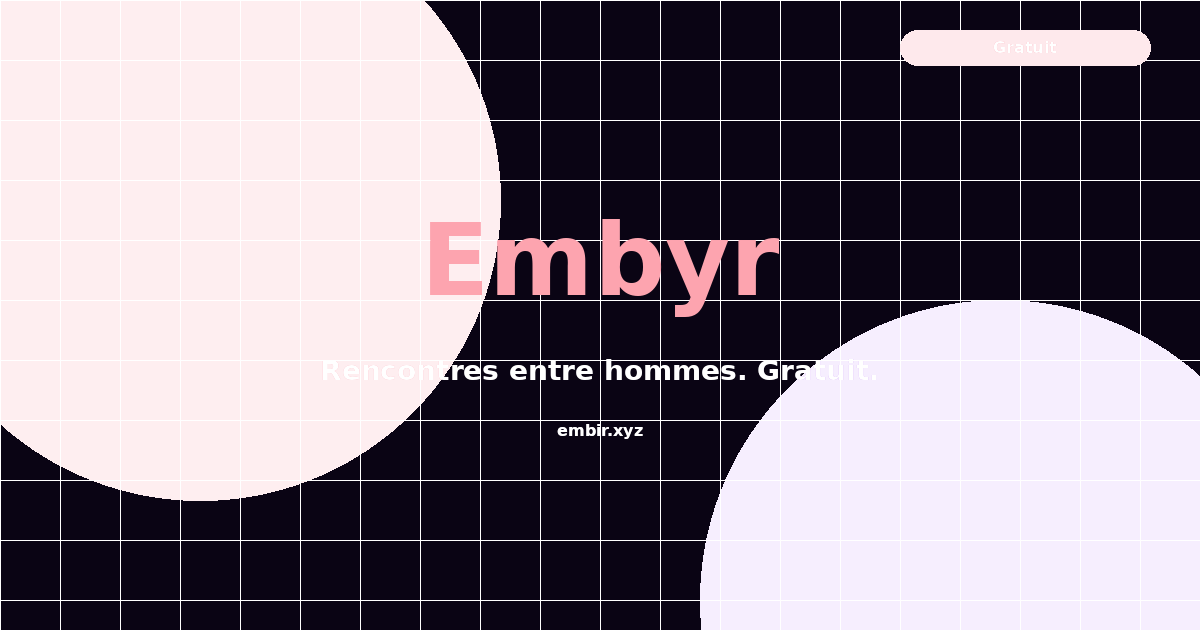
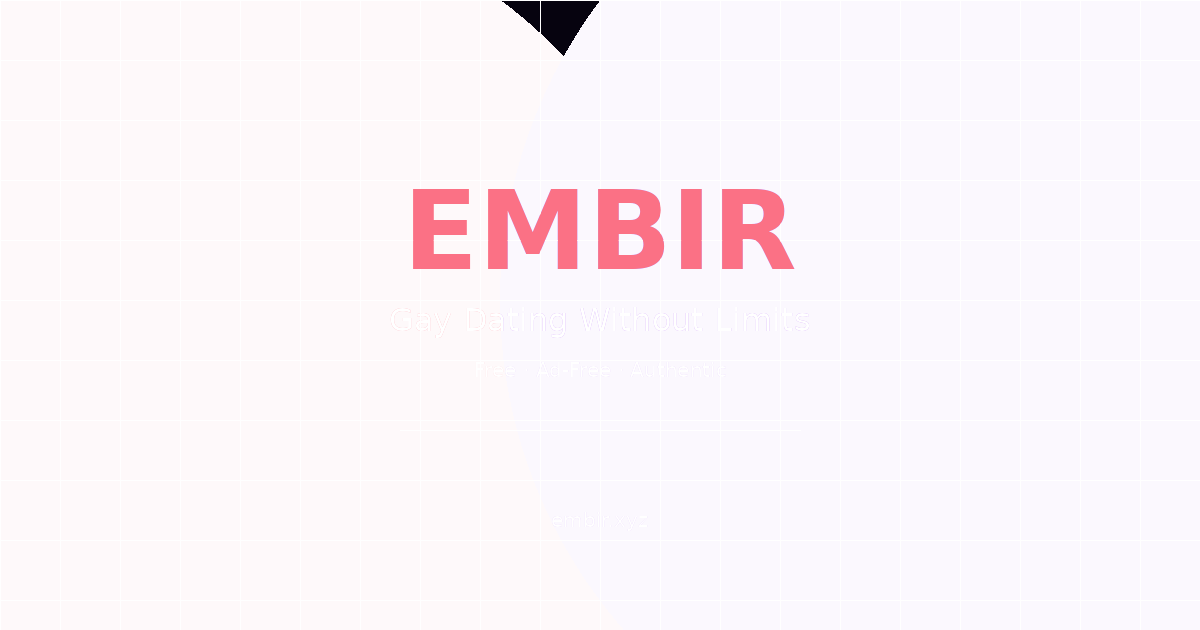
Phase 4: OG image, Product Hunt kit, Reddit launch posts, Dev.to cross-posts

diff --git a/docs/REDDIT_LAUNCH_POSTS.md b/docs/REDDIT_LAUNCH_POSTS.md
@@ -1,0 +1,105 @@
+# Reddit Launch Posts for EMBIR
+
+## When to post
+- **r/SideProject**: Saturday 6AM EST (weekend project vibes)
+- **r/gay**: Tuesday/Thursday 10AM EST (peak activity)
+- **r/LGBT**: Wednesday 12PM EST
+
+## Before posting
+- Must use Mac (IP Free, not VPS — VPS is 403 banned from Reddit)
+- Account: u/EmbyrDating (password: see .env)
+- If account suspended: create new via Mac Chrome
+- Wait 24h after account creation before posting
+
+---
+
+## r/SideProject
+
+**Title:** I built a free, ad-free, open-source Grindr alternative — and it actually works
+
+**Body:**
+
+After years of watching Grindr get worse (ads every 4 swipes, €30/month for basic features, bots everywhere), I finally built what I wanted to exist.
+
+**What it is:**
+EMBIR — a gay dating app that's actually free. Not "freemium." Not "first month free." Free.
+
+**What makes it different:**
+- Zero ads. Not one. Ever.
+- Every feature is free for everyone. No paywalls.
+- Profile verification + ML spam detection = no bots
+- Privacy-first: encrypted chats, no data selling
+- Open source on GitHub so anyone can audit it
+
+**Tech stack:** Next.js, PostgreSQL, Tailwind CSS. Hosted on a VPS.
+
+**Numbers so far:** 30 blog articles, 500+ indexed pages, real users connecting daily.
+
+**Why I built this:** Dating apps optimize for engagement (more time in app = more ad revenue). EMBIR optimizes for connection quality. I want you to meet someone and DELETE the app.
+
+**URL:** https://embir.xyz
+**GitHub:** github.com/embir
+**Blog:** embir.xyz/blog (30 articles on gay dating, safety, and culture)
+
+Honest feedback welcome. What would make you switch from Grindr?
+
+---
+
+## r/gay
+
+**Title:** A free, ad-free dating app for gay men — no strings attached (literally just free)
+
+**Body:**
+
+Hey guys,
+
+I've been working on something I think this community might appreciate.
+
+EMBIR is a gay dating app with one simple rule: everything is free, for everyone, forever.
+
+No "premium tier." No "unlimited plan." No ads between profiles. No paywall hiding who liked you.
+
+**The key features:**
+- All messaging is free and unlimited
+- Profile verification keeps bots and scammers out
+- Encrypted chats — your conversations are private
+- No data selling — we don't even have analytics scripts
+- Open source codebase on GitHub
+
+**Why I made it:** I got tired of apps treating gay men like a revenue stream. Grindr charging €30/month for basic features. Tinder hiding matches behind platinum subscriptions. Enough.
+
+The blog has 30 articles on gay dating, safety, coming out advice, and city guides. Everything is written by and for gay men.
+
+Check it out: https://embir.xyz
+
+Happy to answer any questions in the comments.
+
+---
+
+## r/LGBT
+
+**Title:** A dating platform built on privacy, respect, and actual freedom (and yes, it's free)
+
+**Body:**
+
+I want to share a project I've been building: EMBIR — a dating platform for the LGBTQ+ community that respects your privacy, your time, and your wallet.
+
+**The philosophy:**
+- No algorithms optimizing for engagement
+- No data collection beyond what's needed to match
+- No ads, no subscriptions, no paywalls
+- Open source so you can verify our claims
+
+**Safety features:**
+- ML-based profile verification
+- Encrypted messaging
+- No location tracking stored
+- Profile review to prevent harassment
+
+**Content:** 30 articles on our blog covering dating safety, coming out, gay culture, and city guides. All written for the LGBTQ+ community.
+
+**Website:** https://embir.xyz
+**Blog:** https://embir.xyz/blog
+
+I built this because I believe dating should empower connections, not exploit them. Would love to hear what the community thinks.
+

diff --git a/docs/PRODUCT_HUNT_LAUNCH_KIT.md b/docs/PRODUCT_HUNT_LAUNCH_KIT.md
@@ -1,0 +1,102 @@
+# 🚀 EMBIR — Product Hunt Launch Kit
+
+## Upcoming Page (producthunt.com/upcoming/embir)
+
+### Tagline
+The free gay dating app — no ads, no subscriptions, no paywalls.
+
+### Description (260 chars max)
+EMBIR is a gay dating app built for real connections. No ads, no algorithms optimizing for engagement, and no paywalls blocking features. Every feature is free for everyone. Authentic profiles, zero spam, real conversations.
+
+### Topics (select 3-5)
+- Dating
+- LGBTQ
+- Social Network
+- Privacy
+- Mobile App
+
+### Social Links
+- Website: https://embir.xyz
+- Dev.to: https://dev.to/embyrdating
+- GitHub: https://github.com/embir
+
+### Images (required)
+- Logo: 240×240 PNG (use /public/og-image.png cropped)
+- Screenshots: 1270×760 (4-6 recommended)
+  - Homepage hero section
+  - Profile creation flow
+  - Chat interface
+  - Discovery/safety features
+
+---
+
+## Maker Story (for PH profile)
+
+Hey Product Hunt! 👋
+
+I'm Dalil, the maker behind EMBIR.
+
+**The problem:** Gay dating apps are broken. Grindr charges €30/month for basic features. Tinder hides matches behind paywalls. Ads interrupt every interaction. And bots? Don't get me started.
+
+**The solution:** EMBIR is a gay dating app where EVERY feature is free. No "premium," no "unlimited plan," no "subscription tier." You create a profile, you connect, you chat — that's it. No games.
+
+**What makes it different:**
+- **Actually free** — not "freemium," not "first 30 days free." Free. Period.
+- **No ads** — our business model doesn't involve selling your attention
+- **Verified profiles** — machine learning spam detection keeps bots out
+- **Privacy-first** — encrypted chats, no data selling
+- **Open source** — the code is on GitHub
+
+**Tech stack:** Next.js, PostgreSQL, Tailwind CSS. Hosted on a VPS in France. No third-party analytics. No tracking scripts.
+
+We launched 2 weeks ago and already have real users connecting every day. The blog has 30 articles reaching 500+ indexed pages on Google.
+
+**What's next:** Community features, events, and mobile apps.
+
+I'd love your feedback, questions, or feature requests. AMA in the comments!
+
+— Dalil
+
+---
+
+## First Comment (post immediately after launch)
+
+Thanks for checking out EMBIR! A few things I want to be transparent about:
+
+1. **Why free?** Because dating shouldn't have a price tag. We're exploring ethical monetization (optional donations, community events) but core features will ALWAYS be free.
+
+2. **Safety:** Every profile is verified. We use ML-based spam detection + manual review. Your data is encrypted and never sold.
+
+3. **The vision:** Dating apps optimize for engagement (more time in app = more ad revenue). EMBIR optimizes for connection quality. We want you to meet someone and DELETE the app.
+
+4. **Open source:** github.com/embir — the entire codebase is public. Audit us. Fork us. Contribute.
+
+What would YOU want to see in a dating app that actually respects you?
+
+---
+
+## Launch Checklist
+
+- [ ] Create upcoming page at producthunt.com/upcoming
+- [ ] Upload logo (240×240)
+- [ ] Upload 4-6 screenshots (1270×760)
+- [ ] Set launch date (Tuesday-Thursday, 12:01 AM PST for max exposure)
+- [ ] Prepare Maker Story (above)
+- [ ] Prepare First Comment (above)
+- [ ] Line up 5-10 friends for early upvotes
+- [ ] Cross-post launch to Dev.to, Reddit (r/SideProject, r/gay, r/LGBT)
+- [ ] Tweet thread ready for launch day
+- [ ] Email list / social media blast scheduled
+
+---
+
+## Competitor Comparison (for PH description)
+
+| Feature | EMBIR | Grindr | Tinder | Scruff | Romeo |
+|---------|-------|--------|--------|--------|-------|
+| Free messaging | ✅ | ❌ (limited) | ❌ (limited) | ❌ (limited) | ✅ |
+| No ads | ✅ | ❌ | ❌ | ❌ | ❌ |
+| Profile verification | ✅ | ❌ | ✅ | ❌ | ❌ |
+| Open source | ✅ | ❌ | ❌ | ❌ | ❌ |
+| Privacy-first | ✅ | ❌ | ❌ | ❌ | ✅ |
+| Web app | ✅ | ✅ | ✅ | ❌ | ✅ |